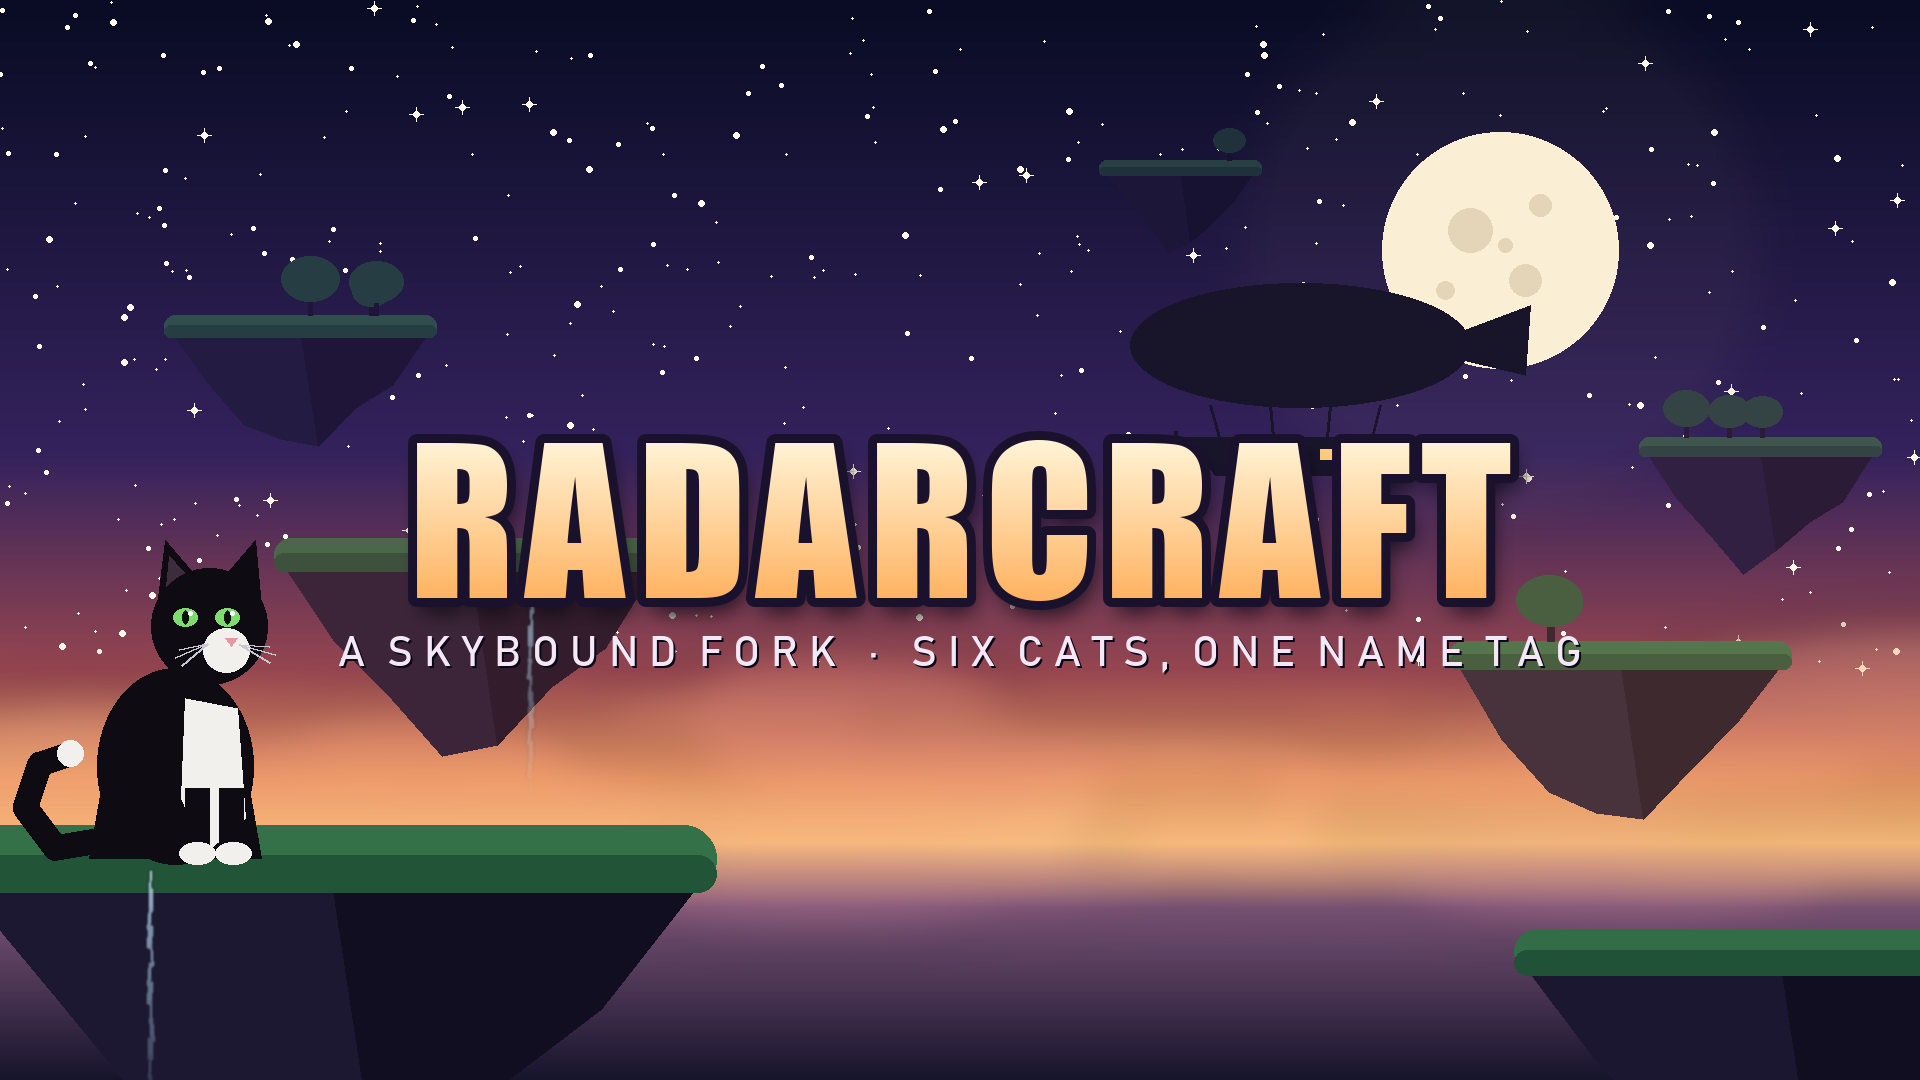
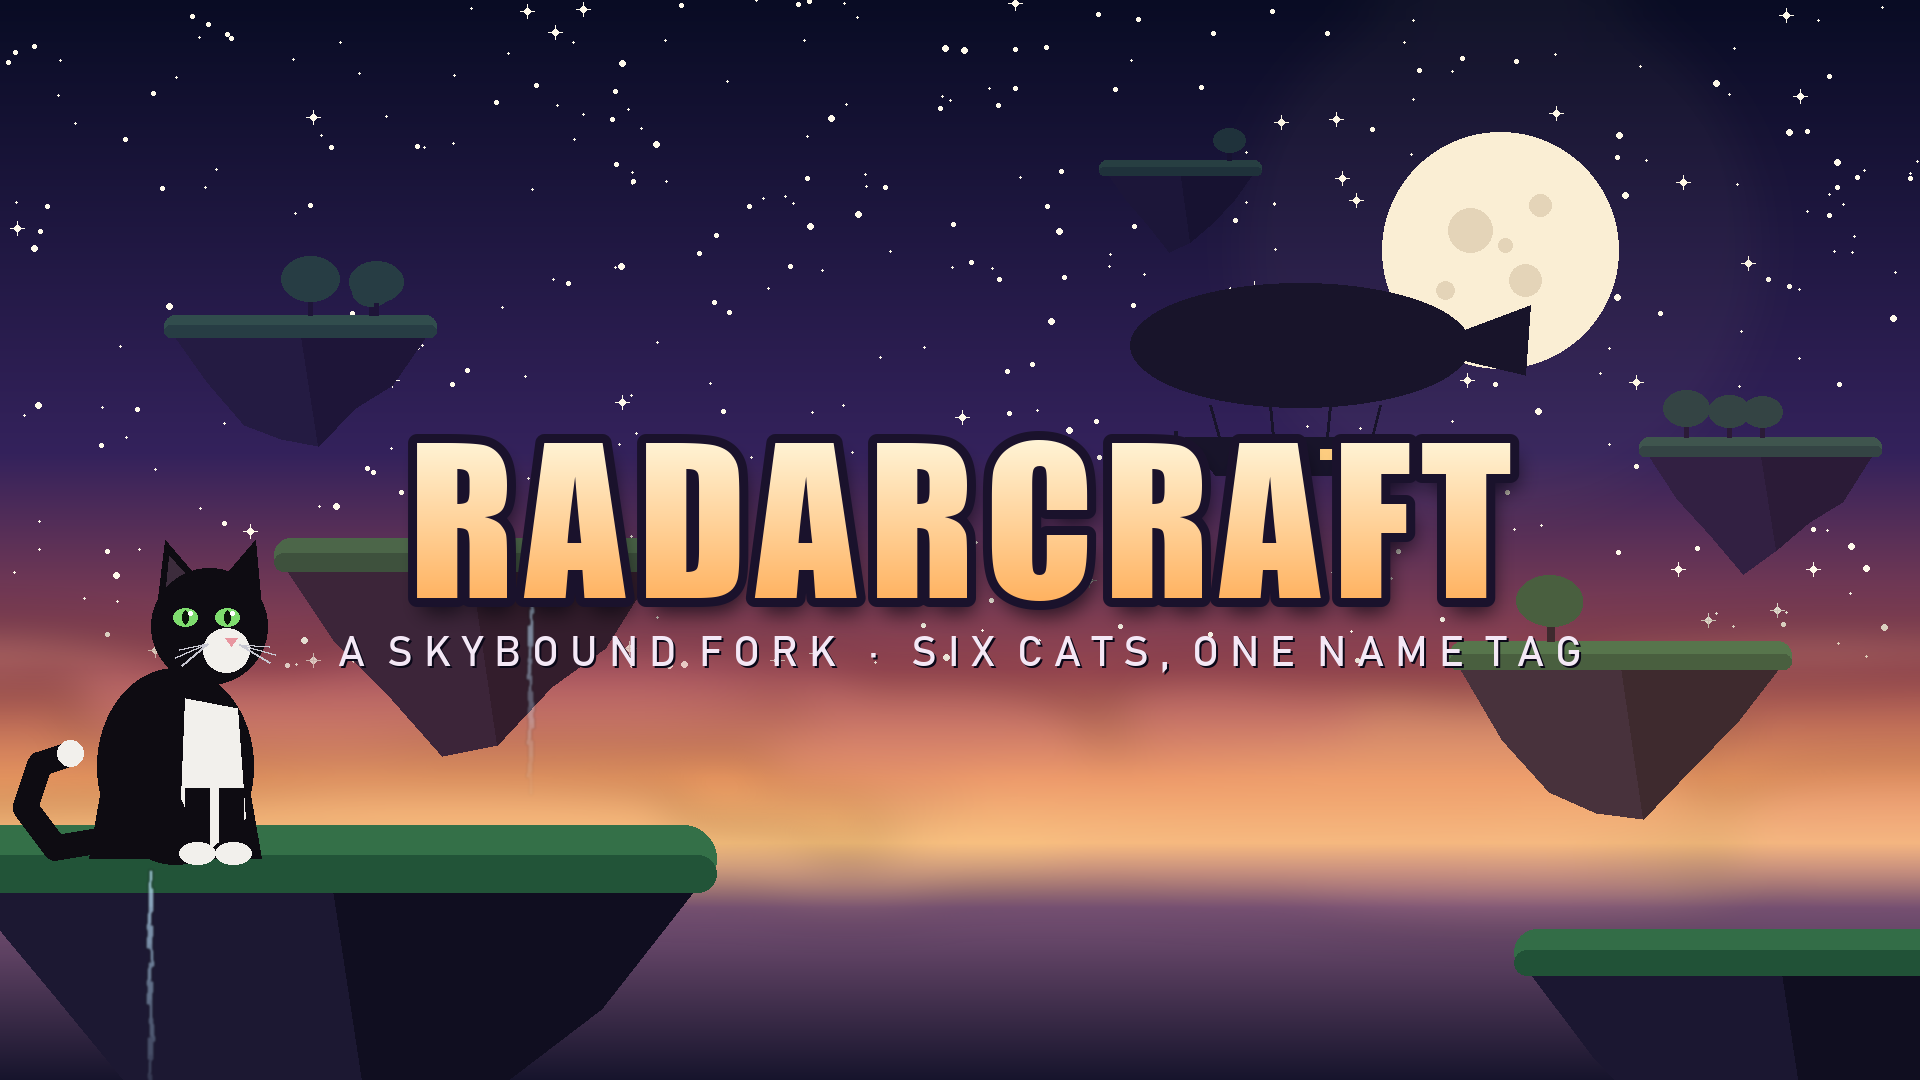
Radarcraft panorama replaces the trial-chamber one behind every menu and loading screen (via KubeJS assets)

Changed region(s): [[0.9062, 0.6111, 1.0, 0.6722], [0.7188, 0.6417, 0.75, 0.7028], [0.0312, 0.6722, 0.0625, 0.7028]]

diff --git a/modpack/titlescreen/make_art.py b/modpack/titlescreen/make_art.py
@@ -252,7 +252,69 @@ def button(label, hover, name):
     img.save(OUT / f"{name}.png", optimize=True)
 
 
+def panorama():
+    """Six 1024x1024 cube faces (panorama_0..5) replacing vanilla's trial-chamber title panorama, which 1.21 also
+    shows blurred behind every menu and loading screen. Faces 0-3 go around the horizon, 4 is up, 5 is down."""
+    S = 1024
+    random.seed(23)
+    strip = Image.new("RGBA", (S * 4, S))
+    px = strip.load()
+    for y in range(S):  # top of a side face looks 45 deg up, bottom 45 deg down; horizon at the middle
+        c = gradient_color(0.30 + 0.62 * y / S)
+        for x in range(S * 4):
+            px[x, y] = c + (255,)
+    d = ImageDraw.Draw(strip, "RGBA")
+    for _ in range(900):
+        x, y = random.randint(0, S * 4), random.randint(0, int(S * 0.42))
+        a = int(80 + 160 * random.random() * (1 - y / (S * 0.42)))
+        r = random.choice([1, 1, 2, 2, 3])
+        d.ellipse((x - r, y - r, x + r, y + r), fill=(255, 250, 235, a))
+    # moon on face 1, low warm haze along the horizon
+    glow = Image.new("RGBA", strip.size, (0, 0, 0, 0)); g = ImageDraw.Draw(glow)
+    mx, my, mr = S + 560, 330, 92
+    for k in range(10, 0, -1):
+        rr = mr + k * 16; g.ellipse((mx - rr, my - rr, mx + rr, my + rr), fill=(255, 226, 170, 9))
+    strip.alpha_composite(glow.filter(ImageFilter.GaussianBlur(26)))
+    d.ellipse((mx - mr, my - mr, mx + mr, my + mr), fill=(250, 238, 212, 255))
+    haze = Image.new("RGBA", strip.size, (0, 0, 0, 0)); hd = ImageDraw.Draw(haze)
+    for _ in range(60):
+        cx, cy = random.randint(0, S * 4), random.randint(int(S * 0.48), int(S * 0.70))
+        w, h = random.randint(260, 700), random.randint(36, 90)
+        hd.ellipse((cx - w // 2, cy - h // 2, cx + w // 2, cy + h // 2), fill=random.choice([(255, 196, 150, 60), (240, 150, 160, 50)]))
+    strip.alpha_composite(haze.filter(ImageFilter.GaussianBlur(26)))
+    # floating islands all around, far ones small and hazy
+    global W, H
+    W0, H0 = W, H
+    W, H = S * 4, S
+    for _ in range(16):
+        dist = random.uniform(0.35, 0.95)
+        width = int(380 * (1.2 - dist) + 60)
+        island(strip, random.randint(width // 2 + 20, S * 4 - width // 2 - 20), random.randint(int(S * 0.40), int(S * 0.62)), width, int(width * 0.6), dist,
+               waterfall=(random.randint(-width // 4, width // 4), int(width * 0.7)) if random.random() < 0.3 else None)
+    airship(strip, cx=2 * S + 520, cy=360)
+    W, H = W0, H0
+    for i in range(4):
+        strip.crop((i * S, 0, (i + 1) * S, S)).convert("RGB").save(OUT / f"panorama_{i}.png", optimize=True)
+    # up: dark starry dome; down: a dim cloud sea
+    up = Image.new("RGB", (S, S)); upx = up.load()
+    for y in range(S):
+        for x in range(S):
+            t = min(1.0, math.hypot(x - S / 2, y - S / 2) / (S * 0.71))
+            upx[x, y] = lerp((6, 8, 26), gradient_color(0.30), t)
+    ud = ImageDraw.Draw(up)
+    for _ in range(500):
+        x, y = random.randint(0, S), random.randint(0, S); r = random.choice([1, 1, 2])
+        ud.ellipse((x - r, y - r, x + r, y + r), fill=(255, 250, 235))
+    up.save(OUT / "panorama_4.png", optimize=True)
+    down = Image.new("RGBA", (S, S), gradient_color(0.93) + (255,)); dd = ImageDraw.Draw(down)
+    for _ in range(70):
+        cx, cy = random.randint(0, S), random.randint(0, S); w = random.randint(120, 380)
+        dd.ellipse((cx - w, cy - w // 3, cx + w, cy + w // 3), fill=random.choice([(150, 90, 120, 60), (90, 60, 100, 70)]))
+    down.filter(ImageFilter.GaussianBlur(20)).convert("RGB").save(OUT / "panorama_5.png", optimize=True)
+
+
 if __name__ == "__main__":
+    panorama()
     background()
     for name, label in (("s", "SINGLEPLAYER"), ("m", "MULTIPLAYER"), ("mod", "MODS"), ("o", "OPTIONS"), ("qg", "QUIT GAME"), ("rs", "REALMS")):
         button(label, False, name); button(label, True, name + "h")

diff --git a/modpack/build_pack.py b/modpack/build_pack.py
@@ -75,7 +75,14 @@ def make_title_screen(overrides):
     src_layout.unlink()
     if (fm / "assets" / "1x").exists():
         shutil.rmtree(fm / "assets" / "1x")
-    shutil.copytree(art, fm / "assets" / "radarcraft", dirs_exist_ok=True)
+    shutil.copytree(art, fm / "assets" / "radarcraft", dirs_exist_ok=True, ignore=shutil.ignore_patterns("panorama_*.png"))
+    # Vanilla's title panorama (trial chambers in 1.21) is also the blurred backdrop of every menu and loading screen.
+    # KubeJS serves kubejs/assets as an always-on resource pack, so the Radarcraft panorama replaces it everywhere.
+    pano_dir = overrides / "kubejs" / "assets" / "minecraft" / "textures" / "gui" / "title" / "background"
+    pano_dir.mkdir(parents=True, exist_ok=True)
+    for i in range(6):
+        if (art / f"panorama_{i}.png").exists():
+            shutil.copy2(art / f"panorama_{i}.png", pano_dir / f"panorama_{i}.png")
     print("title screen: fm_radarcraft.txt +", len(list(art.glob('*.png'))), "images")
 
 
